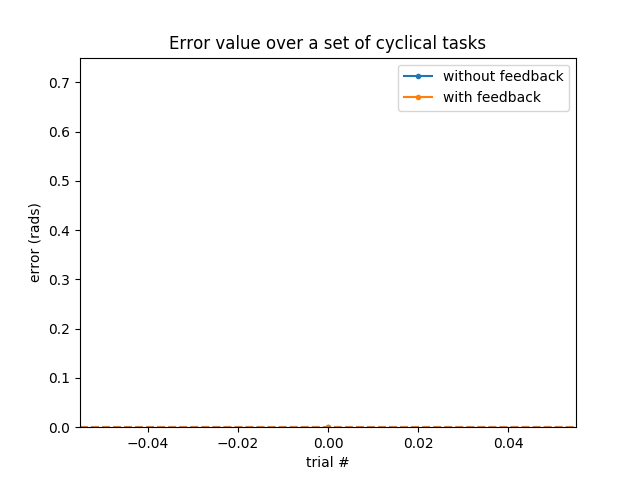
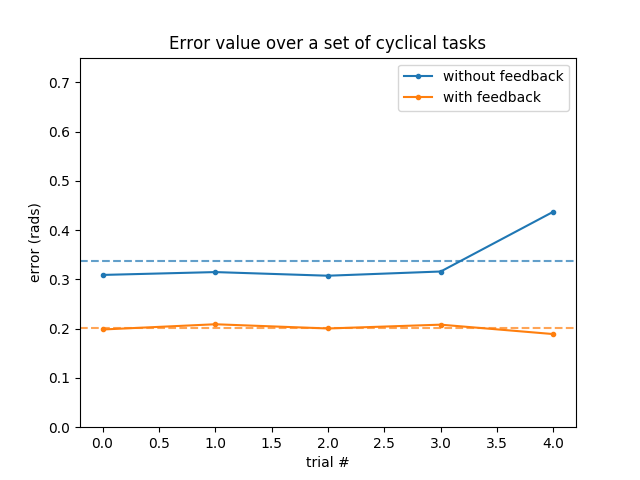
played around with the models and tried to add extra weight at the end; system goes unstable most probabily due to the muscle scaling value; Also added a version history for the model files

diff --git a/main.py b/main.py
@@ -22,9 +22,9 @@ np.random.seed(0)
 
 P = np.array([10, 15])
 I = np.array([2, 6])
-trial_number = 2
+trial_number = 5
 
-experiments_switch=[0, 0, 1, 0]
+experiments_switch=[0, 0, 0, 0, 1]
 for ii in range(len(experiments_switch)):
 	globals()["exp{}_average_error".format(ii+1)]=np.zeros([2,1])
 
@@ -75,17 +75,30 @@ if experiments_switch[3] ==1:
 	q1 = p2p_positions_gen_fcn(low=-np.pi/2, high=-np.pi/2, number_of_positions=1, duration_of_each_position=1, timestep=.005)
 	q1 = np.append(q1,p2p_positions_gen_fcn(low=0, high=0, number_of_positions=1, duration_of_each_position=14, timestep=.005))
 	desired_kinematics = positions_to_kinematics_fcn(q0, q1, timestep = 0.005)
-	exp4_average_error[0,:] = openloop_run_fcn(model=model, desired_kinematics=desired_kinematics, model_ver=2, plot_outputs=False, Mj_render=False)
+	exp4_average_error[0,:] = openloop_run_fcn(model=model, desired_kinematics=desired_kinematics, model_ver=3, plot_outputs=False, Mj_render=False)
 	q0 = p2p_positions_gen_fcn(low=np.pi/3, high=np.pi/3, number_of_positions=1, duration_of_each_position=1, timestep=.005)
 	q0 = np.append(q0,p2p_positions_gen_fcn(low=0, high=0, number_of_positions=1, duration_of_each_position=4, timestep=.005))
 	q1 = p2p_positions_gen_fcn(low=-np.pi/2, high=-np.pi/2, number_of_positions=1, duration_of_each_position=1, timestep=.005)
 	q1 = np.append(q1,p2p_positions_gen_fcn(low=0, high=0, number_of_positions=1, duration_of_each_position=4, timestep=.005))
 	desired_kinematics = positions_to_kinematics_fcn(q0, q1, timestep = 0.005)
-	exp4_average_error[1,:] = closeloop_run_fcn(model=model, desired_kinematics=desired_kinematics,  P=P, I=I, model_ver=2, plot_outputs=False, Mj_render=False)
+	exp4_average_error[1,:] = closeloop_run_fcn(model=model, desired_kinematics=desired_kinematics,  P=P, I=I, model_ver=3, plot_outputs=False, Mj_render=False)
+
+if experiments_switch[4] == 1:
+	test5_no = 1
+	exp5_average_error = np.zeros([2,test5_no])
+	for ii in range(test5_no):
+		features = np.random.rand(10)*.8+.2
+		[q0_filtered, q1_filtered]  = feat_to_positions_fcn(features, timestep=0.005, cycle_duration_in_seconds = 4, show=False)
+		#import pdb; pdb.set_trace()
+		q0_filtered_10 = np.tile(q0_filtered,10)
+		q1_filtered_10 = np.tile(q1_filtered,10)
+		desired_kinematics = positions_to_kinematics_fcn(q0_filtered_10, q1_filtered_10, timestep = 0.005)
+		exp5_average_error[0,ii] = openloop_run_fcn(model=model, desired_kinematics=desired_kinematics, model_ver=4, plot_outputs=False, Mj_render=True)
+		exp5_average_error[1,ii] = closeloop_run_fcn(model=model, desired_kinematics=desired_kinematics, model_ver=4, P=P, I=I, plot_outputs=False, Mj_render=True) # K = [10, 15]
 
 errors_all = [exp1_average_error, exp2_average_error, exp3_average_error, exp4_average_error]
 pickle.dump([errors_all],open("results/feedback_errors_test.sav", 'wb')) # saving the results with only P
-[errors_all] = pickle.load(open("results/feedback_errors_test.sav", 'rb')) # loading the results with only P
-plot_comparison_figures_fcn(errors_all)
+# [errors_all] = pickle.load(open("results/feedback_errors_test.sav", 'rb')) # loading the results with only P
+# plot_comparison_figures_fcn(errors_all)
 
 #import pdb; pdb.set_trace()

diff --git a/feedback_functions.py b/feedback_functions.py
@@ -11,10 +11,10 @@ from copy import deepcopy
 from mujoco_py.generated import const
 from all_functions import *
 
-def calculate_closeloop_inputkinematics(step_number, real_attempt_positions, desired_kinematics, q_error_cum, P, I, gradient_edge_order=1, timestep=.005):
+def calculate_closeloop_inputkinematics(step_number, real_attempt_positions, desired_kinematics, q_error_cum, P, I, delay_timesteps, gradient_edge_order=1, timestep=.005):
 	q_desired =  desired_kinematics[step_number, np.ix_([0,3])][0]
 	q_dot_desired = desired_kinematics[step_number, np.ix_([1,4])][0]
-	q_error = q_desired - real_attempt_positions[step_number-1,:]
+	q_error = q_desired - real_attempt_positions[step_number-1-delay_timesteps,:]
 	q_error_cum[step_number,:] = q_error
 	#import pdb; pdb.set_trace()
 	q_dot_in = q_dot_desired + np.array(P)*q_error + np.array(I)*(q_error_cum.sum(axis=0)*timestep)
@@ -35,7 +35,7 @@ def calculate_closeloop_inputkinematics(step_number, real_attempt_positions, des
 		# project is position tracking), acceleration can be set corresponding to the velocity error to compensate for this error. 
 	return input_kinematics, q_error_cum
 
-def closeloop_run_fcn(model, desired_kinematics, P, I, model_ver=0, plot_outputs=True, Mj_render=False, timestep=.005):
+def closeloop_run_fcn(model, desired_kinematics, P, I, delay_timesteps=0, model_ver=0, plot_outputs=True, Mj_render=False, timestep=.005):
 	est_activations = estimate_activations_fcn(model, desired_kinematics)
 	number_of_task_samples = desired_kinematics.shape[0]
 	chassis_pos=np.zeros(number_of_task_samples,)
@@ -58,8 +58,8 @@ def closeloop_run_fcn(model, desired_kinematics, P, I, model_ver=0, plot_outputs
 	sim.set_state(sim_state)
 	gradient_edge_order = 1
 	for ii in range(number_of_task_samples):
-		if ii < gradient_edge_order:
-			print(ii)
+		if ii < max(gradient_edge_order, delay_timesteps+1):
+			#print(ii)
 			input_kinematics[ii,:] = desired_kinematics[ii,:]
 		else:
 			[input_kinematics[ii,:], q_error_cum] = calculate_closeloop_inputkinematics(
@@ -69,6 +69,7 @@ def closeloop_run_fcn(model, desired_kinematics, P, I, model_ver=0, plot_outputs
 				q_error_cum=q_error_cum,
 				P=P,
 				I=I,
+				delay_timesteps=delay_timesteps,
 				gradient_edge_order=gradient_edge_order,
 				timestep=timestep)
 		est_activations[ii,:] = model.predict([input_kinematics[ii,:]])[0,:]

diff --git a/all_functions.py b/all_functions.py
@@ -467,7 +467,6 @@ def run_activations_fcn(est_activations, model_ver=0, timestep=0.005, Mj_render=
 	sim_state = sim.get_state()
 	control_vector_length=sim.data.ctrl.__len__()
 	print("control_vector_length: "+str(control_vector_length))
-
 	number_of_task_samples=est_activations.shape[0]
 
 	real_attempt_positions = np.zeros((number_of_task_samples,2))
